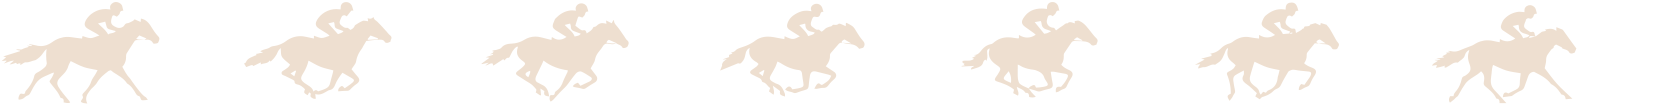
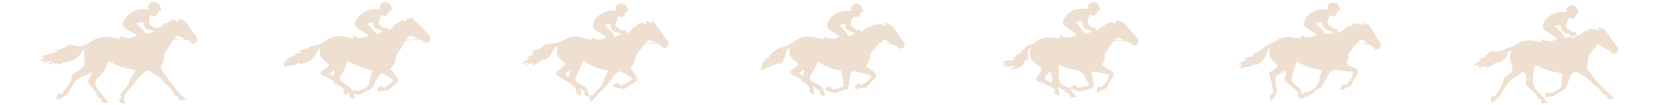
fix horses

diff --git a/src/components/TimelineCard.vue b/src/components/TimelineCard.vue
@@ -11,15 +11,12 @@ const { targetRef: cardRef, isVisible } = useInView(0.4);
   <article
     ref="cardRef"
     class="timeline-card grid items-center gap-x-16 md:grid-cols-[383px_1fr]"
+    :class="{ 'is-visible': isVisible }"
   >
     <div class="preview aspect-square w-[383px]">
-      <CircledPreview
-        v-if="isVisible"
-        :period="period"
-        @open="$emit('open', $event)"
-      />
+      <CircledPreview :period="period" @open="$emit('open', $event)" />
     </div>
-    
+
     <div class="max-w-[440px]">
       <h2 class="text-[28px] font-extrabold uppercase leading-tight text-rust">
         {{ period.title }}
@@ -35,25 +32,10 @@ const { targetRef: cardRef, isVisible } = useInView(0.4);
     order: 2;
   }
 
-  :deep(.preview-frame) {
-    transition:
-      transform 1.4s cubic-bezier(0.2, 0.7, 0.2, 1),
-      opacity 1s;
-
-    @starting-style {
-      opacity: 0;
-      transform: rotate(-200deg) scale(0.8);
-    }
-  }
-
-  :deep(.preview-img) {
-    transition:
-      transform 1.4s cubic-bezier(0.2, 0.7, 0.2, 1) 0.2s,
-      opacity 1.2s 0.2s;
-
-    @starting-style {
-      opacity: 0;
-      transform: scale(1.5);
+  &:not(.is-visible) {
+    :deep(.preview-frame),
+    :deep(.preview-img) {
+      display: none;
     }
   }
 }

diff --git a/src/components/HorsesTrack.vue b/src/components/HorsesTrack.vue
@@ -6,18 +6,23 @@
 
 <style scoped>
 .horses-line {
-  --tile: 1662px;
+  --frame-width: 238px;
+  --frame-count: 7; 
+  --cycle-count: 30;
 
-  width: calc(100% + var(--tile) * 4);
   height: 105px;
-  background: url("../assets/img/horses.webp") repeat-x 0 0 / var(--tile) 100%;
-  animation: run linear both;
+  background: url("../assets/img/horses.webp") repeat-x 0 0 /
+    calc(var(--frame-width) * var(--frame-count)) 100%;
+
+  animation: run steps(210) both;
   animation-timeline: scroll(root block);
 }
 
 @keyframes run {
   to {
-    transform: translateX(calc(var(--tile) * 3));
+    background-position-x: calc(
+      var(--frame-width) * var(--frame-count) * var(--cycle-count) * -1
+    );
   }
 }
 </style>

diff --git a/src/components/CircledPreview.vue b/src/components/CircledPreview.vue
@@ -34,3 +34,29 @@ defineEmits(["open"]);
     </button>
   </div>
 </template>
+
+<style scoped>
+.is-visible {
+  .preview-frame {
+    transition:
+      transform 1.4s cubic-bezier(0.2, 0.7, 0.2, 1),
+      opacity 1s;
+
+    @starting-style {
+      opacity: 0;
+      transform: rotate(-200deg) scale(0.8);
+    }
+  }
+
+  .preview-img {
+    transition:
+      transform 1.4s cubic-bezier(0.2, 0.7, 0.2, 1) 0.2s,
+      opacity 1.2s 0.2s;
+
+    @starting-style {
+      opacity: 0;
+      transform: scale(1.5);
+    }
+  }
+}
+</style>
